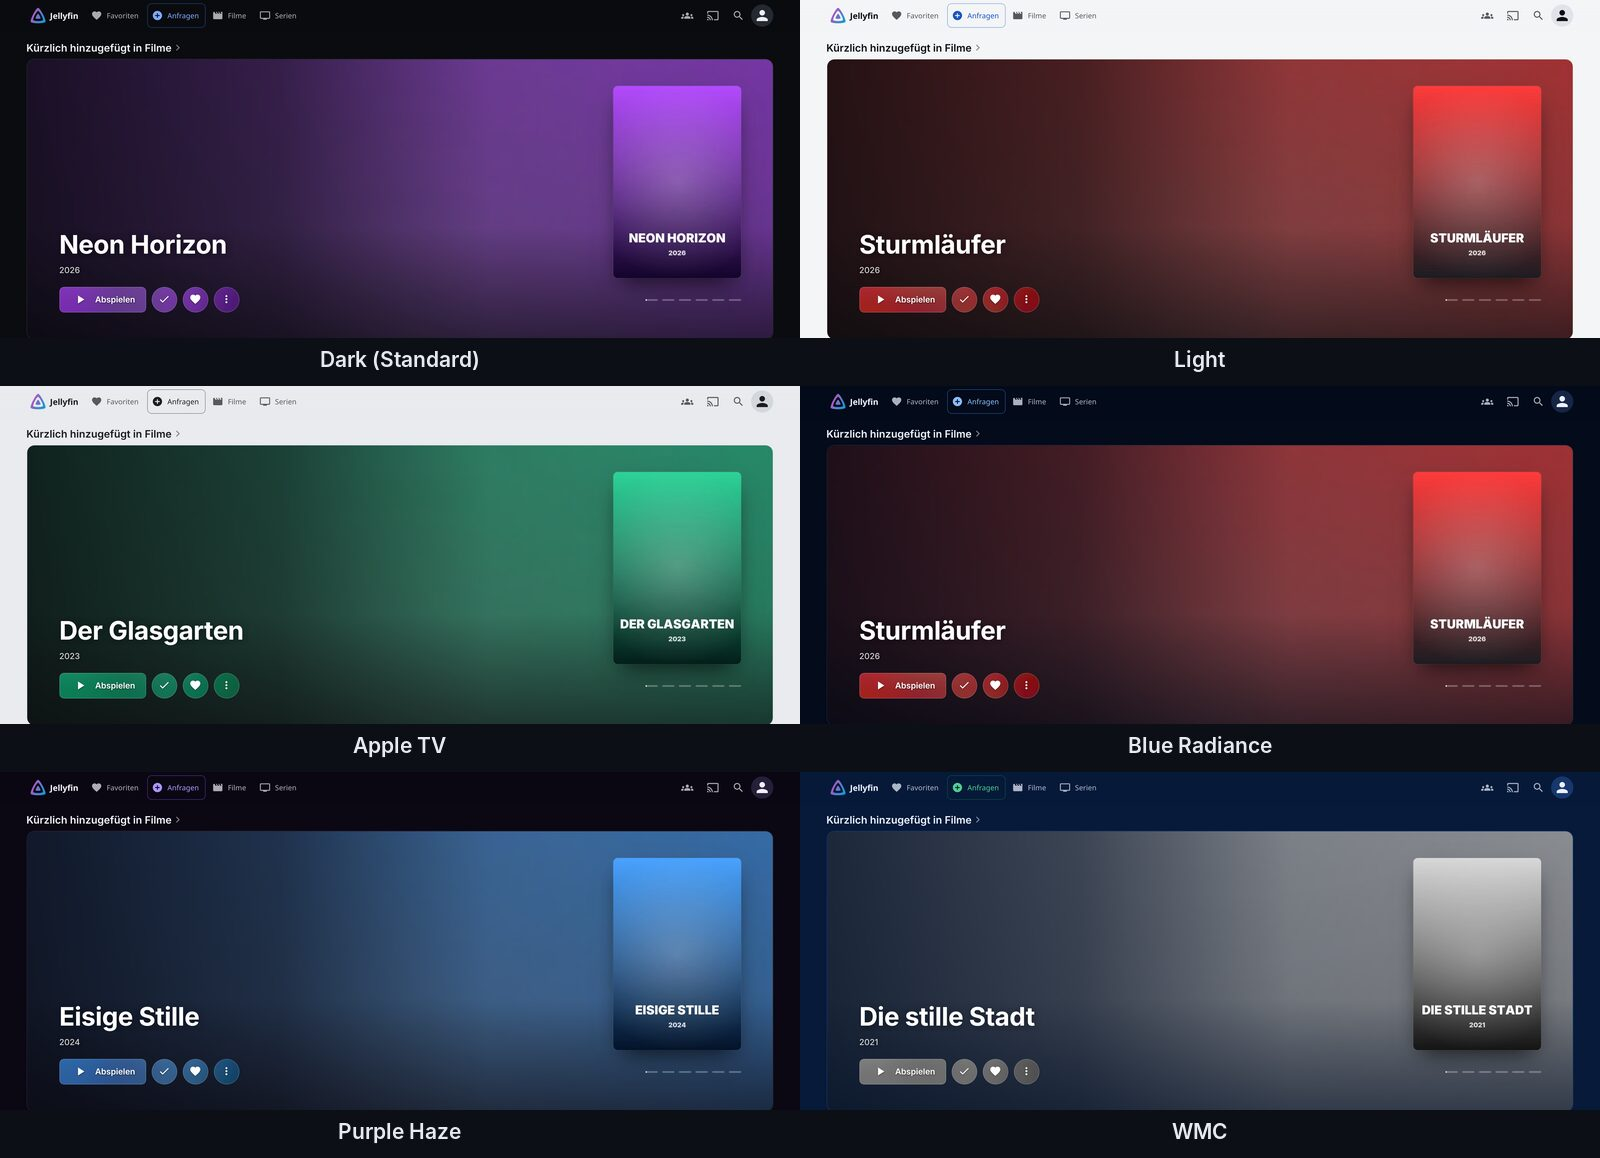
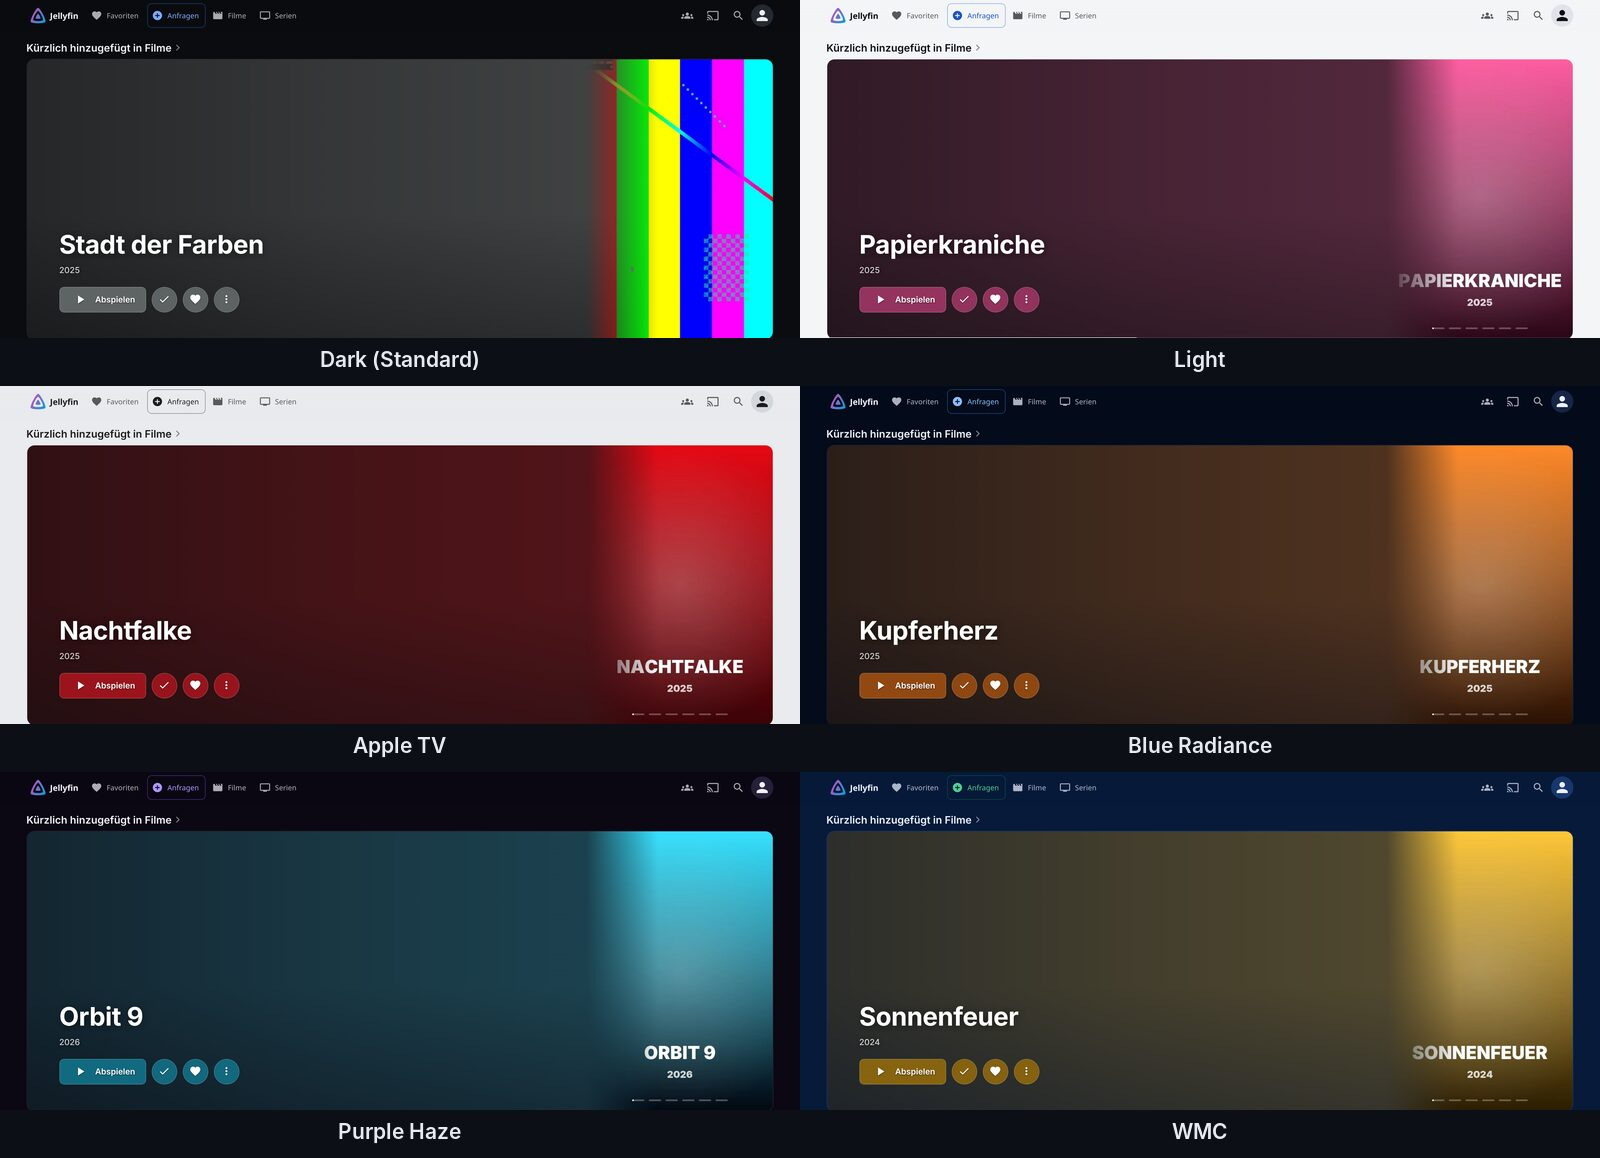
Slideshow: Hintergrund in Filmfarbe, Poster scharf ohne Zoom
- Kein gezoomtes, weichgezeichnetes Poster mehr im Hintergrund
- Hintergrund ist die Durchschnittsfarbe des Posters (Browser verkleinert
  das Poster auf 1 Pixel und kachelt es), abgedunkelt für gute Lesbarkeit
- Poster gross und scharf am rechten Rand, läuft weich in die Filmfarbe aus;
  am Handy füllt es den oberen Teil
- Knöpfe in derselben Filmfarbe, flach statt Farbverlauf
- README und Screenshots aktualisiert

Claude-Session: https://claude.ai/code/session_01A721ahC7RrZEQFWsLW8ttG

diff --git a/jellywatch.css b/jellywatch.css
@@ -809,21 +809,48 @@ html:not(.layout-tv) .homeSectionsContainer .verticalSection:has(> .sectionTitle
     display: none !important;
 }
 
-/* Farben der Knöpfe: aus den Farben des jeweiligen Posters (Blurhash von Jellyfin) */
+/* Kein Blurhash im Banner (Farben kommen direkt aus dem Poster) */
 html:not(.layout-tv) .homeSectionsContainer .verticalSection:has(> .sectionTitleContainer a[href*="collectionType=movies"]):not(:has(> .sectionTitleContainer a[href*="collectionType=movies"]) ~ *) .blurhash-canvas {
+    display: none !important;
+}
+
+/* Abdunkeln, damit Titel und Knöpfe lesbar bleiben */
+html:not(.layout-tv) .homeSectionsContainer .verticalSection:has(> .sectionTitleContainer a[href*="collectionType=movies"]):not(:has(> .sectionTitleContainer a[href*="collectionType=movies"]) ~ *) .cardScalable::after {
+    content: "";
+    position: absolute;
+    inset: 0;
+    z-index: 1;
+    pointer-events: none;
+    background:
+        linear-gradient(90deg, rgb(var(--jw-shade-ch) / .74) 0%, rgb(var(--jw-shade-ch) / .6) 40%, rgb(var(--jw-shade-ch) / .45) 100%),
+        linear-gradient(0deg, rgb(var(--jw-shade-ch) / .35) 0%, rgb(var(--jw-shade-ch) / 0) 45%);
+}
+
+/* Hintergrund: die Durchschnittsfarbe des Posters.
+   Das Poster wird dafür auf 1 Pixel verkleinert und gekachelt, so entsteht eine
+   ruhige Fläche in der Farbe des Films, ohne Zoom und ohne Weichzeichner. */
+html:not(.layout-tv) .homeSectionsContainer .verticalSection:has(> .sectionTitleContainer a[href*="collectionType=movies"]):not(:has(> .sectionTitleContainer a[href*="collectionType=movies"]) ~ *) .cardImageContainer {
     position: absolute !important;
-    z-index: 2;
-    top: auto !important;
-    right: auto !important;
-    left: var(--jw-pad-x) !important;
-    bottom: var(--jw-pad-y) !important;
-    width: calc(var(--jw-play-w) + 168px) !important;
-    height: 46px !important;
+    inset: 0;
+    width: auto !important;
+    height: auto !important;
+    contain: none !important;
     border-radius: 0 !important;
-    opacity: 1 !important;
-    object-fit: cover;
-    object-position: 50% 40%;
-    filter: saturate(1.5) brightness(.7) contrast(1.05);
+    background-size: 1px 1px !important;
+    background-repeat: repeat !important;
+}
+
+/* Knöpfe: dieselbe Filmfarbe, kräftiger und dunkler, in Knopfform ausgeschnitten */
+html:not(.layout-tv) .homeSectionsContainer .verticalSection:has(> .sectionTitleContainer a[href*="collectionType=movies"]):not(:has(> .sectionTitleContainer a[href*="collectionType=movies"]) ~ *) .cardImageContainer::before {
+    content: "";
+    position: absolute;
+    z-index: 2;
+    left: var(--jw-pad-x);
+    bottom: var(--jw-pad-y);
+    width: calc(var(--jw-play-w) + 168px);
+    height: 46px;
+    background: inherit;
+    filter: saturate(1.7) brightness(.72);
     pointer-events: none;
     -webkit-mask:
         linear-gradient(#000 0 0) 8px 0 / calc(var(--jw-play-w) - 16px) 46px no-repeat,
@@ -847,53 +874,21 @@ html:not(.layout-tv) .homeSectionsContainer .verticalSection:has(> .sectionTitle
         radial-gradient(closest-side, #000 calc(100% - .5px), transparent) calc(var(--jw-play-w) + 122px) 0 / 46px 46px no-repeat;
 }
 
-html:not(.layout-tv) .homeSectionsContainer .verticalSection:has(> .sectionTitleContainer a[href*="collectionType=movies"]):not(:has(> .sectionTitleContainer a[href*="collectionType=movies"]) ~ *) .cardScalable::after {
-    content: "";
-    position: absolute;
-    inset: 0;
-    z-index: 1;
-    pointer-events: none;
-    background:
-        linear-gradient(90deg, rgb(var(--jw-shade-ch) / .86) 0%, rgb(var(--jw-shade-ch) / .68) 34%, rgb(var(--jw-shade-ch) / .32) 62%, rgb(var(--jw-shade-ch) / .22) 100%),
-        linear-gradient(0deg, rgb(var(--jw-shade-ch) / .55) 0%, rgb(var(--jw-shade-ch) / 0) 40%);
-}
-
-/* Das Bild-Element füllt die Folie (klickbar), das Poster zeigt es über ::after */
-html:not(.layout-tv) .homeSectionsContainer .verticalSection:has(> .sectionTitleContainer a[href*="collectionType=movies"]):not(:has(> .sectionTitleContainer a[href*="collectionType=movies"]) ~ *) .cardImageContainer {
-    position: absolute !important;
-    inset: 0;
-    width: auto !important;
-    height: auto !important;
-    contain: none !important;
-    border-radius: 0 !important;
-    background-size: 0 0 !important;
-}
-
-/* Hintergrund: das Poster des Films, gross und leicht weichgezeichnet */
-html:not(.layout-tv) .homeSectionsContainer .verticalSection:has(> .sectionTitleContainer a[href*="collectionType=movies"]):not(:has(> .sectionTitleContainer a[href*="collectionType=movies"]) ~ *) .cardImageContainer::before {
-    content: "";
-    position: absolute;
-    inset: -40px;
-    background: inherit;
-    background-size: cover;
-    background-position: center 30%;
-    filter: blur(6px);
-}
-
+/* Das Poster selbst: gross und scharf am rechten Rand, läuft weich in die Filmfarbe aus */
 html:not(.layout-tv) .homeSectionsContainer .verticalSection:has(> .sectionTitleContainer a[href*="collectionType=movies"]):not(:has(> .sectionTitleContainer a[href*="collectionType=movies"]) ~ *) .cardImageContainer::after {
     content: "";
     position: absolute;
     z-index: 2;
-    right: var(--jw-pad-x);
-    top: var(--jw-pad-y);
-    bottom: calc(var(--jw-pad-y) + 40px);
-    max-width: var(--jw-poster-w);
+    top: 0;
+    bottom: 0;
+    right: 0;
     aspect-ratio: 2 / 3;
     background: inherit;
-    background-size: cover;
+    background-size: cover !important;
+    background-repeat: no-repeat !important;
     background-position: center;
-    border-radius: var(--jw-r);
-    box-shadow: 0 18px 40px -14px rgb(0 0 0 / .75), 0 0 0 1px rgb(255 255 255 / .08);
+    -webkit-mask-image: linear-gradient(to right, transparent 0%, #000 38%);
+    mask-image: linear-gradient(to right, transparent 0%, #000 38%);
 }
 
 /* Fortschritt bei angefangenen Filmen: dünne Linie ganz unten */
@@ -1015,7 +1010,7 @@ html:not(.layout-tv) .homeSectionsContainer .verticalSection:has(> .sectionTitle
     position: absolute;
     z-index: 3;
     left: var(--jw-pad-x);
-    right: calc(var(--jw-pad-x) * 2 + var(--jw-poster-w));
+    right: calc(var(--jw-hero-height) * .55 + var(--jw-pad-x));
     margin: 0;
     padding: 0 !important;
     text-align: left !important;
@@ -1054,8 +1049,8 @@ html:not(.layout-tv) .homeSectionsContainer .verticalSection:has(> .sectionTitle
     position: absolute;
     z-index: 6;
     visibility: visible;
-    bottom: calc(var(--jw-pad-y) + 21px);
-    right: calc(var(--jw-pad-x) + (var(--jw-k) - 1 - var(--jw-p)) * 30px);
+    bottom: 18px;
+    right: calc(var(--jw-hero-height) / 3 - var(--jw-k) * 15px + (var(--jw-k) - 1 - var(--jw-p)) * 30px + 4px);
     width: 22px;
     height: 3px;
     border-radius: 2px;
@@ -1091,20 +1086,23 @@ html:not(.layout-tv) .homeSectionsContainer .verticalSection:has(> .sectionTitle
     }
 
     html:not(.layout-tv) .homeSectionsContainer .verticalSection:has(> .sectionTitleContainer a[href*="collectionType=movies"]):not(:has(> .sectionTitleContainer a[href*="collectionType=movies"]) ~ *) .cardImageContainer::after {
-        right: 50%;
-        top: 24px;
+        left: 0;
+        right: 0;
+        top: 0;
         bottom: auto;
-        height: 42%;
-        transform: translateX(50%);
+        width: 100%;
+        height: auto;
+        -webkit-mask-image: linear-gradient(to bottom, #000 45%, transparent 88%);
+        mask-image: linear-gradient(to bottom, #000 45%, transparent 88%);
     }
 
     html:not(.layout-tv) .homeSectionsContainer .verticalSection:has(> .sectionTitleContainer a[href*="collectionType=movies"]):not(:has(> .sectionTitleContainer a[href*="collectionType=movies"]) ~ *) .cardScalable::after {
-        background: linear-gradient(0deg, rgb(var(--jw-shade-ch) / .92) 0%, rgb(var(--jw-shade-ch) / .72) 34%, rgb(var(--jw-shade-ch) / .32) 62%, rgb(var(--jw-shade-ch) / .4) 100%);
+        background: linear-gradient(0deg, rgb(var(--jw-shade-ch) / .7) 0%, rgb(var(--jw-shade-ch) / .5) 40%, rgb(var(--jw-shade-ch) / .35) 100%);
     }
 
-    html:not(.layout-tv) .homeSectionsContainer .verticalSection:has(> .sectionTitleContainer a[href*="collectionType=movies"]):not(:has(> .sectionTitleContainer a[href*="collectionType=movies"]) ~ *) .blurhash-canvas {
-        left: 50% !important;
-        width: var(--jw-play-w) !important;
+    html:not(.layout-tv) .homeSectionsContainer .verticalSection:has(> .sectionTitleContainer a[href*="collectionType=movies"]):not(:has(> .sectionTitleContainer a[href*="collectionType=movies"]) ~ *) .cardImageContainer::before {
+        left: 50%;
+        width: var(--jw-play-w);
         transform: translateX(-50%);
     }
 

diff --git a/README.md b/README.md
@@ -8,7 +8,7 @@ Ein dunkles Theme für Jellyfin 12. Es besteht nur aus CSS: kein JavaScript, kei
 
 ## Funktionen
 
-- **Slideshow** oben auf der Startseite: 6 Filme aus den zuletzt hinzugefügten, mit dem Poster als Hintergrund. In Chrome, Edge und Safari wird bei jedem Laden zufällig ausgewählt.
+- **Slideshow** oben auf der Startseite: 6 Filme aus den zuletzt hinzugefügten, mit grossem Poster und einem Hintergrund in der Farbe des Films. In Chrome, Edge und Safari wird bei jedem Laden zufällig ausgewählt.
 - Die Knöpfe in der Slideshow übernehmen die **Farben des jeweiligen Films**.
 - **Sechs Farbvarianten**, passend zu den Theme-Namen von Jellyfin. Jeder Benutzer wählt selbst.
 - Optional ein Knopf **„Anfragen“** für Seerr, ohne API-Key.
@@ -55,8 +55,9 @@ Die Anmeldeseite verwendet immer die Standardfarbe (Dark), weil Jellyfin dort de
 Die Reihe „Kürzlich hinzugefügt in Filme“ wird oben auf der Startseite zu einem grossen Banner mit 6 Filmen:
 
 - Jellyfin liefert der Startseite die bis zu 16 neuesten Filme. Daraus wählt die Slideshow 6 aus.
-- Im Hintergrund ist das Poster des Films zu sehen. Es ist leicht weichgezeichnet, weil Jellyfin für die Startseite nur kleine Poster liefert und kein breites Hintergrundbild.
-- Der „Abspielen“-Knopf und die runden Knöpfe nehmen die Farben des Posters an, so sieht jeder Film anders aus.
+- Das Poster steht gross und scharf am rechten Rand (am Handy oben) und läuft in eine Fläche in der Farbe des Films aus. Die Farbe berechnet der Browser aus dem Poster, ohne Zoom und ohne Weichzeichner.
+- Der „Abspielen“-Knopf und die runden Knöpfe haben dieselbe Filmfarbe, so sieht jeder Film anders aus.
+- Das breite Hintergrundbild, das auf der Detailseite eines Films zu sehen ist, kann die Slideshow nicht zeigen: Jellyfin setzt auf der Startseite nur das Poster in die Seite. Dafür bräuchte es JavaScript.
 - In Browsern mit der CSS-Funktion `random()` (aktuelles Chrome, Edge und Safari) ist die Auswahl und Reihenfolge bei jedem Laden zufällig. Andere Browser zeigen die 6 neuesten.
 - Wechsel alle 7 Sekunden. Solange die Maus darauf ist, bleibt sie stehen.
 - Klick auf Poster oder Titel öffnet den Film, „Abspielen“ startet ihn.
